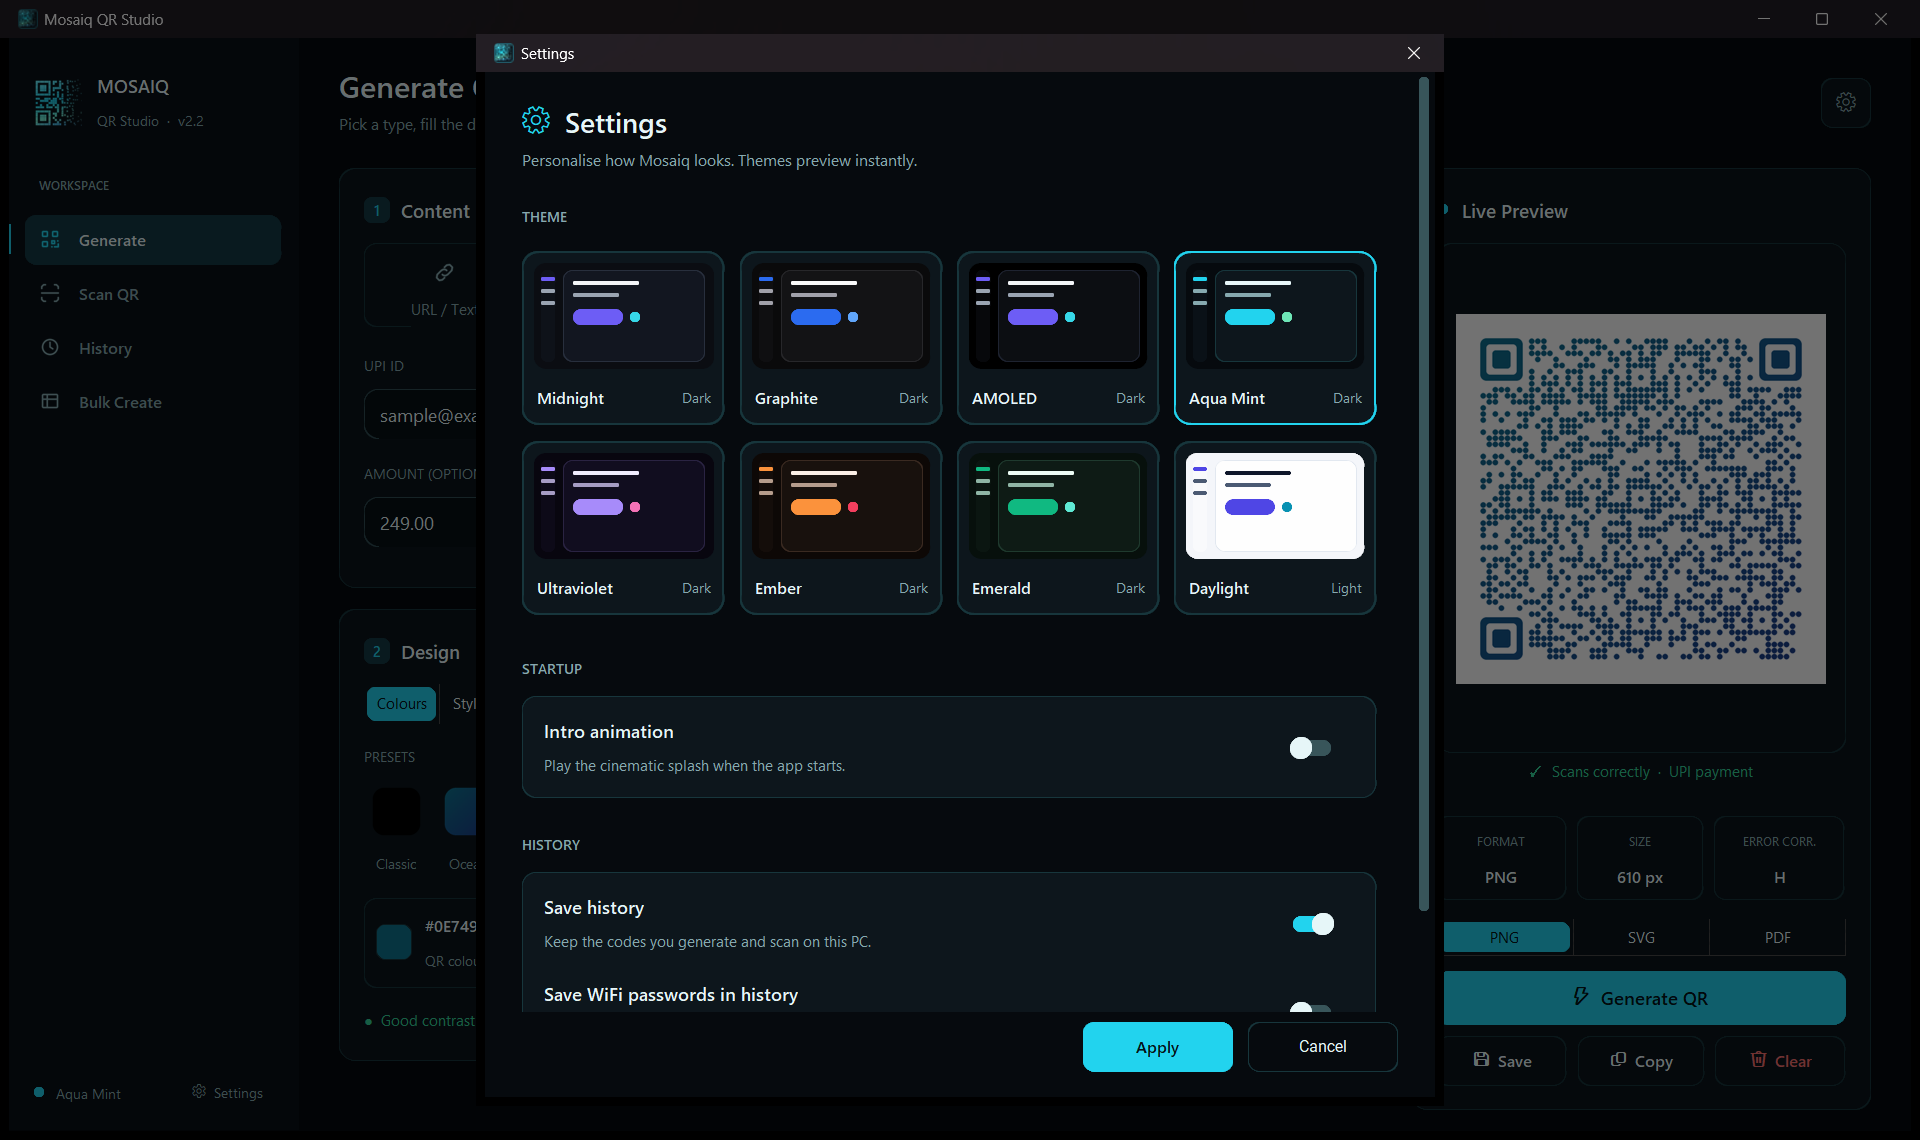
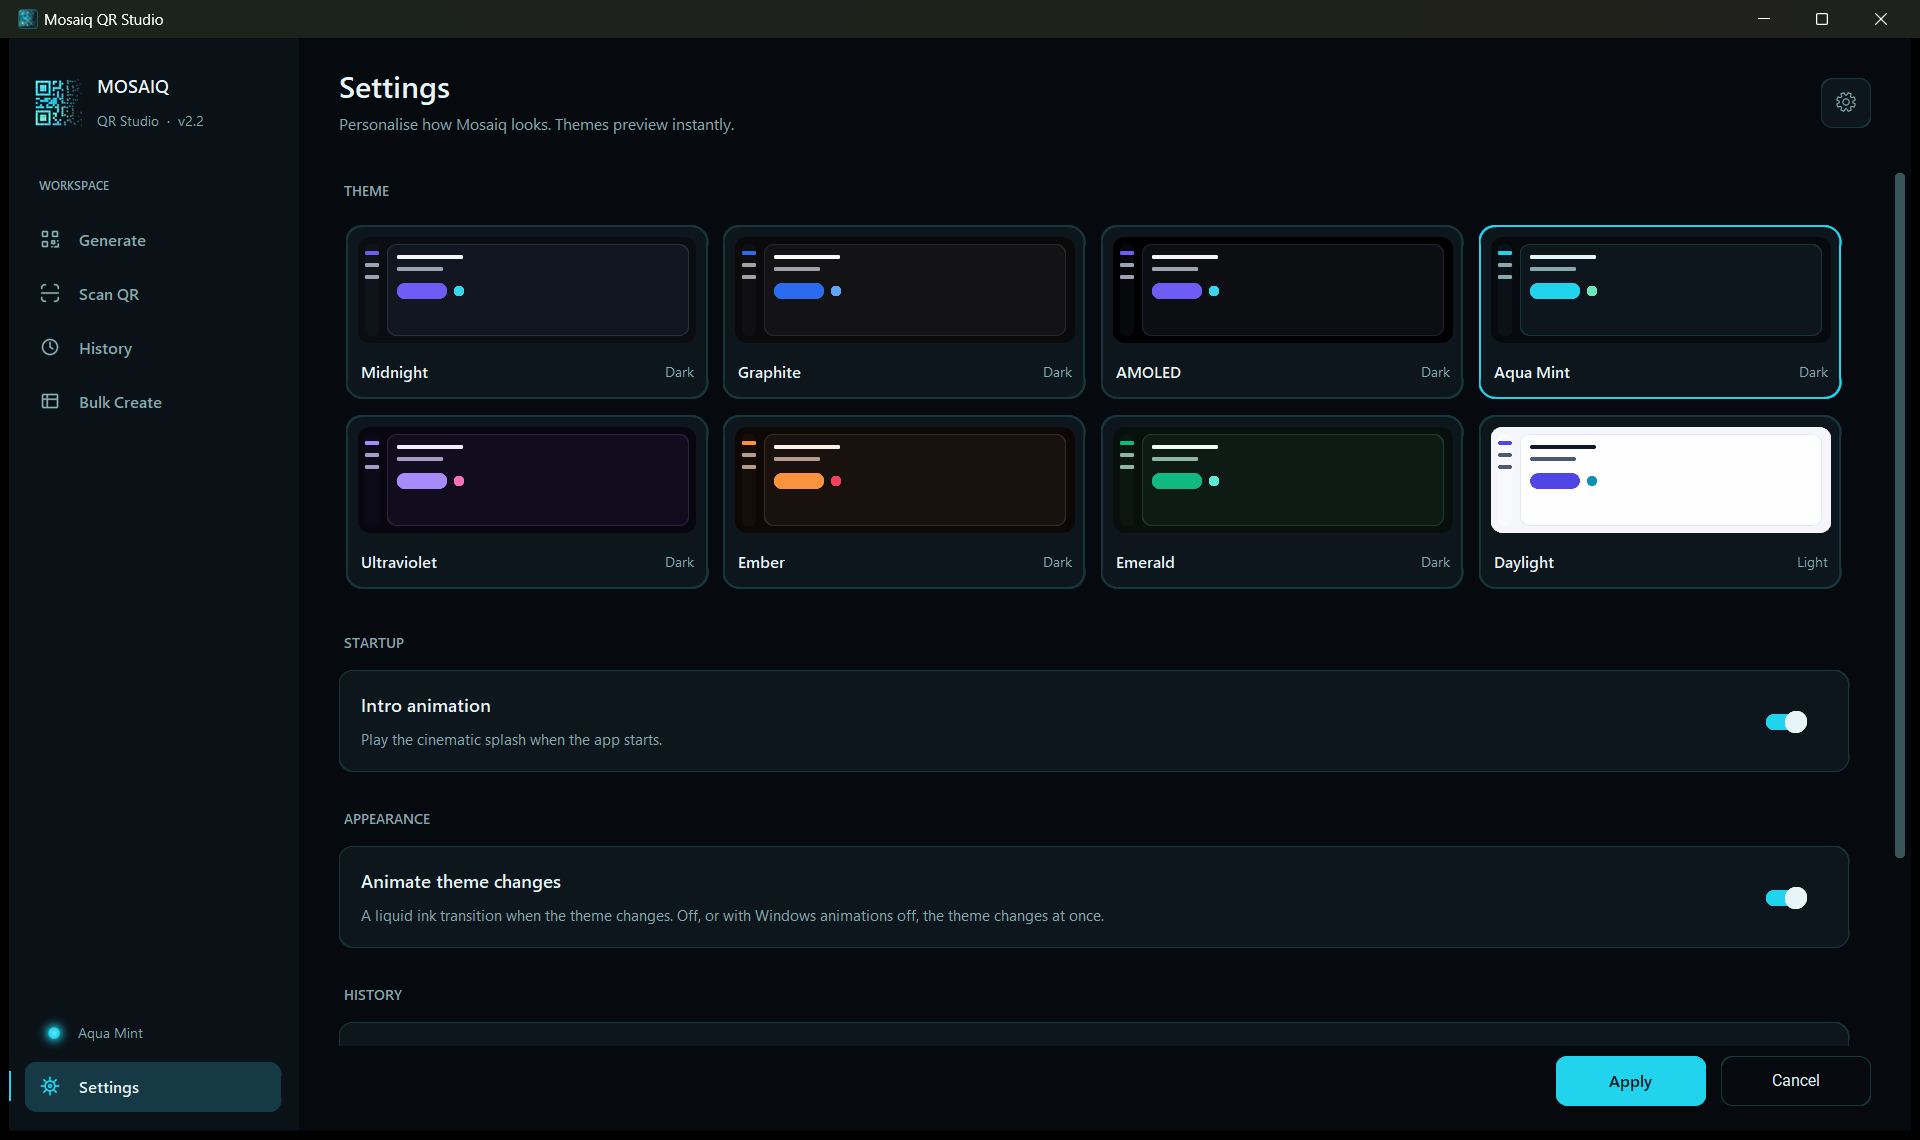
Store listing for 2.2: new What's new and certification notes, audience line removed (the listing is public), screenshot paths; store pictures remade from the final UI (Settings page with the Apply / Cancel footer, intro switch on, a reserved fictional phone number in the Bulk sample); _store_shots.

diff --git a/_store_shots.py b/_store_shots.py
@@ -120,7 +120,8 @@ def _one(name, outdir):
     elif name == "bulk":
         sample = os.path.join(tempfile.mkdtemp(), "mosaiq-bulk-sample.csv")
         with open(sample, "w", encoding="utf-8", newline="") as fh:
-            fh.write(bulk_csv.SAMPLE_CSV)
+            # The app's sample uses the +91 98765 43210 placeholder; public pictures show a reserved fictional number.
+            fh.write(bulk_csv.SAMPLE_CSV.replace("+919876543210", "+15555550100").replace("+91 98765 43210", "+1 555 555 0100"))
         gp.design_card.apply_preset("Ocean")
         app.show_bulk_page()
         app.bulk_page.load_csv(sample)
@@ -149,7 +150,7 @@ def main():
             folder = os.path.join(appdata, "QR Code Studio")
             os.makedirs(folder)
             with open(os.path.join(folder, "settings.json"), "w", encoding="utf-8") as fh:
-                json.dump({"theme": theme, "splash_enabled": False}, fh)
+                json.dump({"theme": theme}, fh)               # everything else is a fresh install's default (intro switch on)
             env = dict(os.environ, APPDATA=appdata)
             subprocess.run([sys.executable, os.path.abspath(__file__), "--one", name, outdir],
                            env=env, check=True, timeout=180)

diff --git a/packaging/msix/STORE_LISTING.md b/packaging/msix/STORE_LISTING.md
@@ -19,8 +19,7 @@ the Store signs it.
 ## Pricing and availability
 
 - **Price:** Free
-- **First submission:** choose a *private audience* containing your own Microsoft account.
-  Install the Store-signed build from the Store, test it, then make the listing public.
+- **Audience:** Public (already set)
 
 ## Age rating (IARC questionnaire)
 
@@ -45,21 +44,31 @@ lowest rating (3+ / Everyone).
 
 ## Notes for certification
 
-> Desktop app, no sign-in. On launch an intro animation plays for about 9 seconds, then the
-> main window opens maximized. Generate: pick a type (URL / Text, UPI Payment, WiFi, Contact,
-> Email or SMS), fill in the small form, click "Generate QR", then choose PNG, SVG or PDF under
-> the preview and click Save (the file name is asked in the Save dialog). Scan QR: click
-> "Browse Image" and pick the saved PNG (or drag the file onto the page, or press Paste after
-> copying an image); the decoded result appears on the right. "Use Camera" needs a webcam: it
-> shows a live preview and reads a QR code held in front of it; without a camera it shows a
-> clear message instead. "Screen Region" hides the window briefly and lets you drag a box
-> around a QR code on screen. History lists the codes generated and scanned on this PC (kept
-> locally; Settings has switches to turn it off, to save WiFi passwords, which is off by
-> default, and to clear it). Bulk Create loads a CSV file (a sample can be downloaded in the
-> app) and writes the codes to a folder. Settings is a page at the bottom of the sidebar (the
-> gear in the top bar opens it too); there the theme can be changed and the intro turned off. On Windows N editions without the Media
-> Feature Pack, Generate and the rest of the app work and the Scan tab explains that the Media
-> Feature Pack is needed.
+> Version 2.2.0.0. Desktop app, no sign-in, works offline. On launch an intro plays for about 9
+> seconds (it can be turned off in Settings), then the main window opens maximized.
+>
+> Generate: pick a type (URL / Text, UPI Payment, WiFi, Contact, Email or SMS), fill in the form,
+> click "Generate QR", choose PNG, SVG or PDF under the preview and click Save.
+>
+> Scan QR: click "Browse Image" and pick the saved PNG (or drag the file onto the page, or press
+> Paste after copying an image). The first scan after launch can take a few seconds while the
+> scanner loads; "Reading the code…" is shown meanwhile. "Use Camera" needs a webcam; without one
+> it shows a clear message. "Screen Region" hides the window briefly and lets you drag a box
+> around a QR code on screen.
+>
+> History: codes generated and scanned on this PC, kept locally; Settings can switch it off or
+> clear it.
+>
+> Bulk Create: click "Download sample CSV", then "Choose CSV" with that file, then "Create".
+>
+> Settings: last item in the sidebar (or the gear in the top bar). Pick a theme and press Apply.
+>
+> On Windows N editions without the Media Feature Pack, Generate and the rest of the app work and
+> the Scan tab explains that the Media Feature Pack is needed.
+>
+> The previous submission (2.1.0.0) failed 10.3.4 with Store error 0x80244007, a Store-side
+> download error. This package installs and launches cleanly in our local install test and passes
+> WACK.
 
 ## Store listing (English, United States)
 
@@ -122,12 +131,13 @@ needed.
 ### What's new in this version
 
 A redesigned, calmer layout: numbered Content and Design steps, a live preview that stays in view
-and a clearer Scan page. Style your codes with colour presets, a built-in colour picker, round
-or dotted modules, round eyes, gradients and a logo size slider, and let the test scan check
-that the result still reads. Save as PNG, SVG or PDF; the file name is now asked in the Save
-dialog. New History page for generated and scanned codes (local only, can be switched off and
-cleared; WiFi passwords are not saved by default) and a new Bulk Create page for making up to
-1000 codes from a CSV file. The window now always opens on screen. Also in this release:
+and a clearer Scan page. Style your codes with colour presets, a built-in colour picker, round or
+dotted modules, round eyes, gradients and a logo size slider, and let the test scan check that the
+result still reads. Save as PNG, SVG or PDF; the file name is now asked in the Save dialog. New
+History page for generated and scanned codes (local only, can be switched off and cleared; WiFi
+passwords are not saved by default) and a new Bulk Create page for making up to 1000 codes from a
+CSV file. Settings is now a page with Apply and Cancel, and themes change with a liquid ink
+transition (can be switched off). The window now always opens on screen. Also in this release:
 webcam, clipboard, screen-region and drag-and-drop scanning, UPI, WiFi, contact, email and SMS
 forms, and better reading of dark-mode, dotted and blurred codes.
 
@@ -143,13 +153,17 @@ QR code · QR generator · QR scanner · QR code maker · bulk QR code · QR cod
 
 | File | Caption |
 |---|---|
-| `assets/images/generate.png` | Make a code from a link, UPI, WiFi, contact, email or SMS, with a live preview that stays in view |
-| `assets/images/style.png` | Colour presets, dots, gradients and your logo, with a test scan that checks the result |
-| `assets/images/scan.png` | Scan a QR code from an image, the clipboard, your screen or your webcam |
-| `assets/images/history.png` | History of generated and scanned codes, kept only on your PC |
-| `assets/images/bulk.png` | Bulk Create: turn a CSV file into up to 1000 QR codes |
-| `assets/images/theme_settings.png` | Eight themes with live preview, plus history and privacy switches |
-| `assets/images/light_mode.png` | The light Daylight theme |
+| `D:\Codes\qr code\mosaiq-review\store-screenshots-2.2\generate.png` | Make a code from a link, UPI, WiFi, contact, email or SMS, with a live preview that stays in view |
+| `D:\Codes\qr code\mosaiq-review\store-screenshots-2.2\style.png` | Colour presets, dots, gradients and your logo, with a test scan that checks the result |
+| `D:\Codes\qr code\mosaiq-review\store-screenshots-2.2\scan.png` | Scan a QR code from an image, the clipboard, your screen or your webcam |
+| `D:\Codes\qr code\mosaiq-review\store-screenshots-2.2\history.png` | History of generated and scanned codes, kept only on your PC |
+| `D:\Codes\qr code\mosaiq-review\store-screenshots-2.2\bulk.png` | Bulk Create: turn a CSV file into up to 1000 QR codes |
+| `D:\Codes\qr code\mosaiq-review\store-screenshots-2.2\theme_settings.png` | Eight themes with live preview and a liquid ink transition, plus history and privacy switches |
+| `D:\Codes\qr code\mosaiq-review\store-screenshots-2.2\light_mode.png` | The light Daylight theme |
+
+The same seven pictures are also in `assets/images` (the README uses them). That folder is not part of the
+app or the MSIX, so they are not bundled. They were made from the final UI by `_store_shots.py`: the app
+window only (PrintWindow), a throw-away settings folder, sample data only (no real UPI ID or phone number).
 
 The package already contains the app's logos (rendered by `make_assets.py`), so the
 optional Store logo uploads can be skipped.
